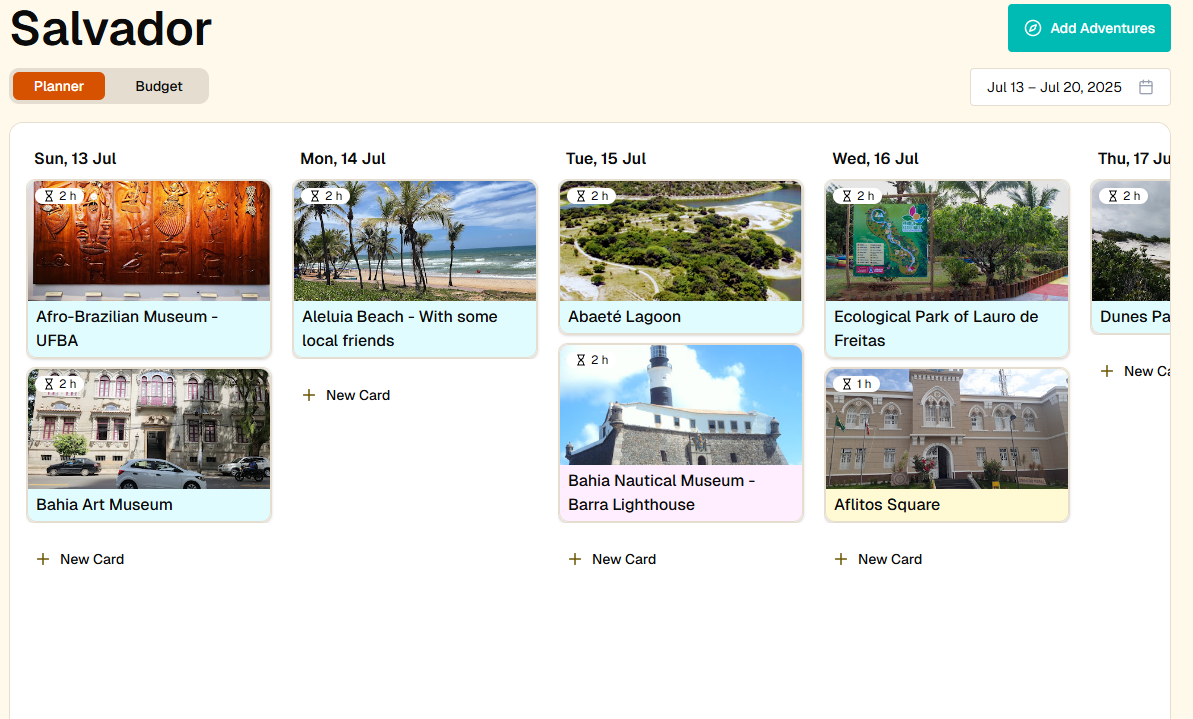
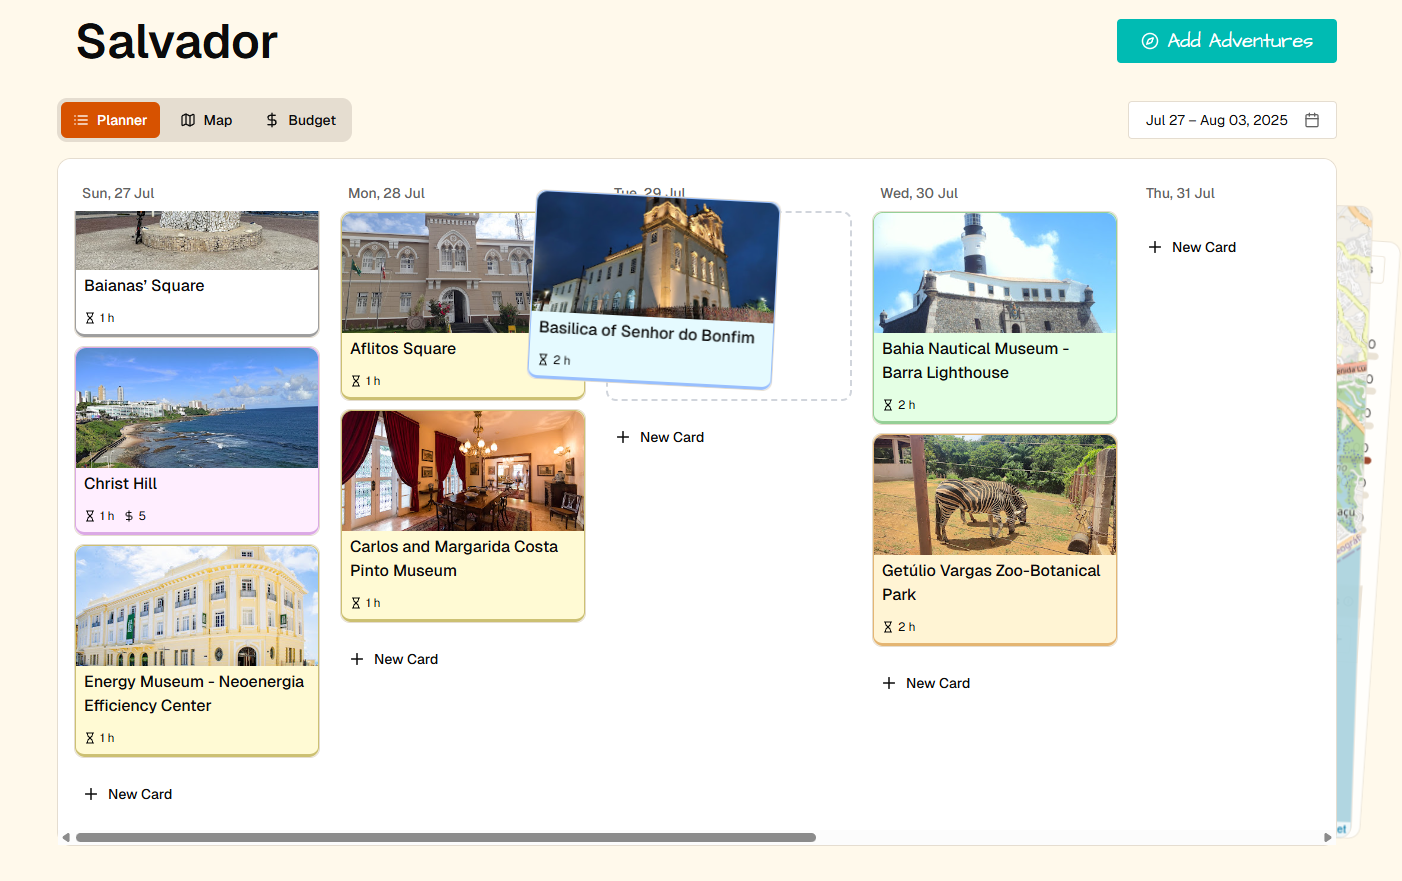
🔒️ Add validations to file input

diff --git a/src/components/ui/popups/CardColorsPopup.tsx b/src/components/ui/popups/CardColorsPopup.tsx
@@ -2,7 +2,7 @@
 'use client';
 
 import React, { useRef, useState } from 'react';
-import { DEFAULT_COLORS } from '@/constants';
+import { DEFAULT_COLORS, MAX_FILE_SIZE } from '@/constants';
 import { Button, CloseButton, Popup } from '@/components';
 
 interface CardColorsPopupProps {
@@ -99,10 +99,11 @@ export default function CardColorsPopup({
             name="upload-image"
             ref={fileInputRef}
             type="file"
-            accept="image/*"
+            accept="image/png,image/jpeg"
             onChange={(e) => {
               const file = e.target.files?.[0];
               if (!file) return;
+              if (file.size > MAX_FILE_SIZE) return;
               const reader = new FileReader();
               reader.onloadend = () => {
                 if (reader.result) {

diff --git a/src/constants/ui.ts b/src/constants/ui.ts
@@ -3,3 +3,5 @@
 export const EMPTY_ACTIVITY_TITLE = '✍️ Click to edit';
 
 export const STARTER_PLANNER_TITLE = 'Salvador';
+
+export const MAX_FILE_SIZE = 512 * 1024;